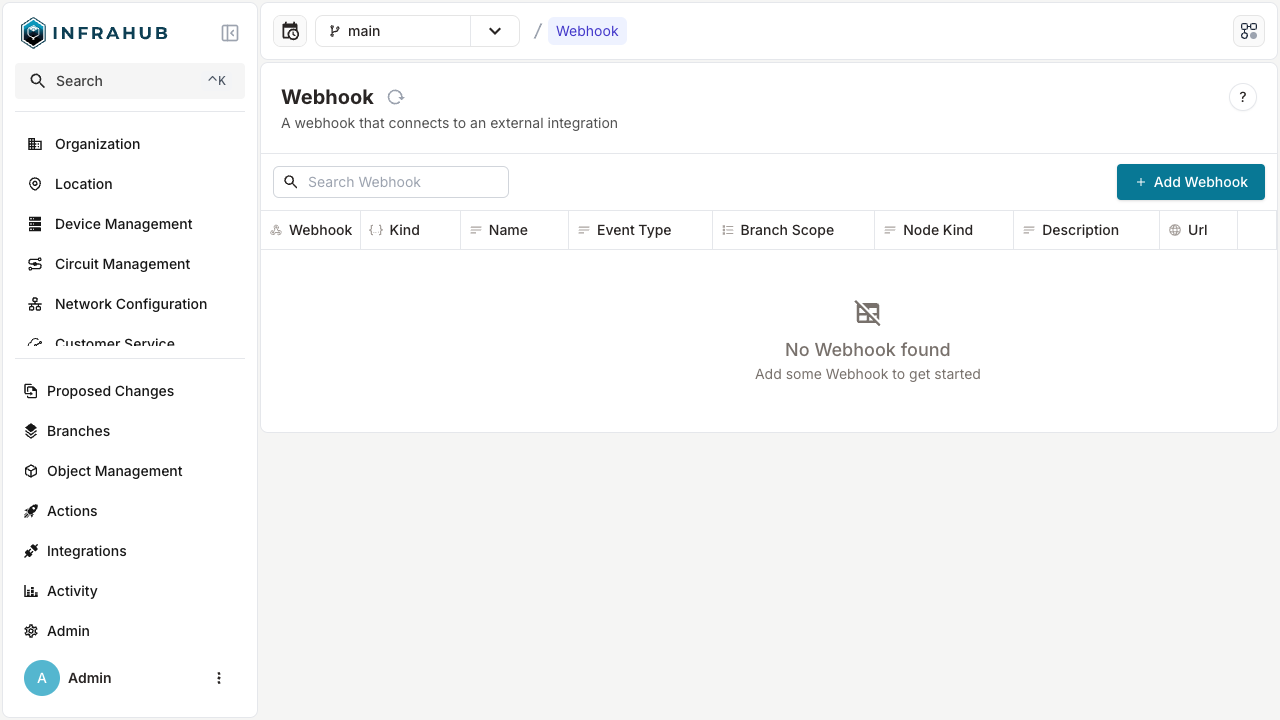
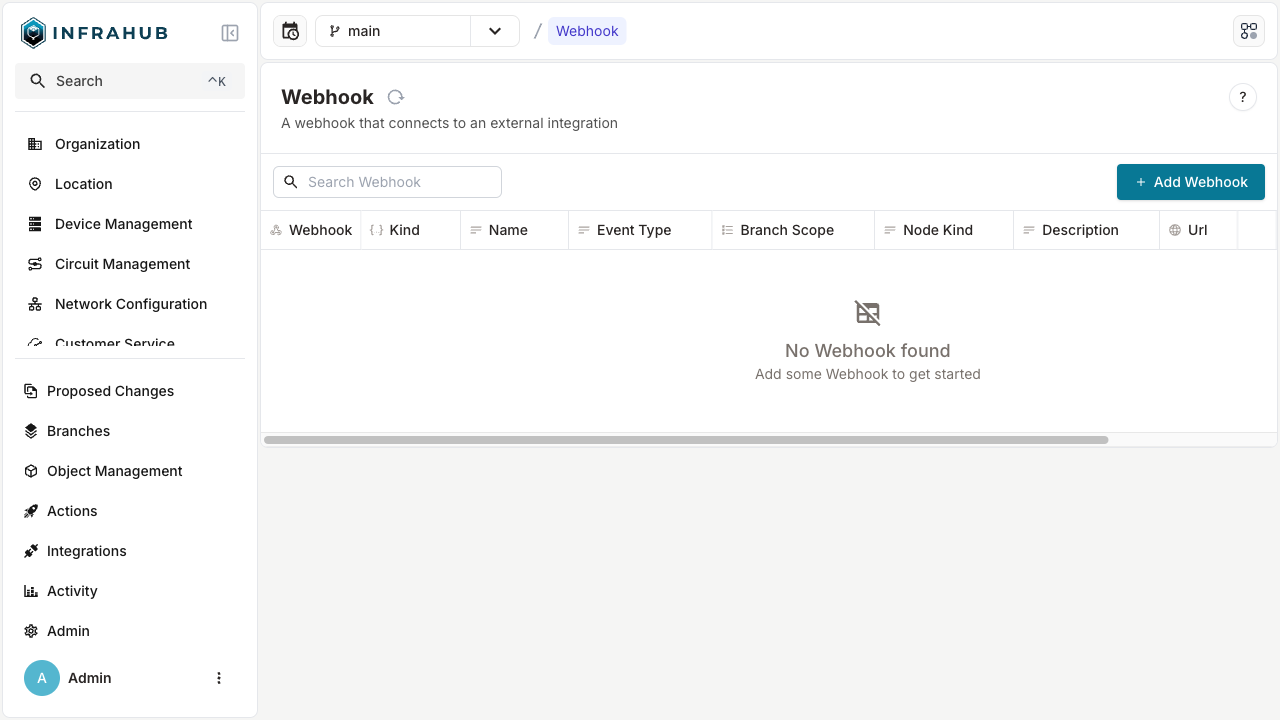
Improve test

Changed region(s): [[0.2188, 0.5806, 0.875, 0.6417], [0.625, 0.4583, 0.6562, 0.4889]]

diff --git a/frontend/app/tests/e2e/webhook/webhook.spec.ts b/frontend/app/tests/e2e/webhook/webhook.spec.ts
@@ -53,7 +53,7 @@ test.describe("/objects/CoreWebhook", () => {
           .getByRole("link", { name: "Ansible EDA", exact: true })
           .click();
 
-        while (await page.getByText("No activity found for this object.").isVisible()) {
+        while (await page.getByText('No activity found for this').isVisible()) {
           await page.reload();
         }
         await expect(page.getByText("NameAnsible EDA")).toBeVisible();
